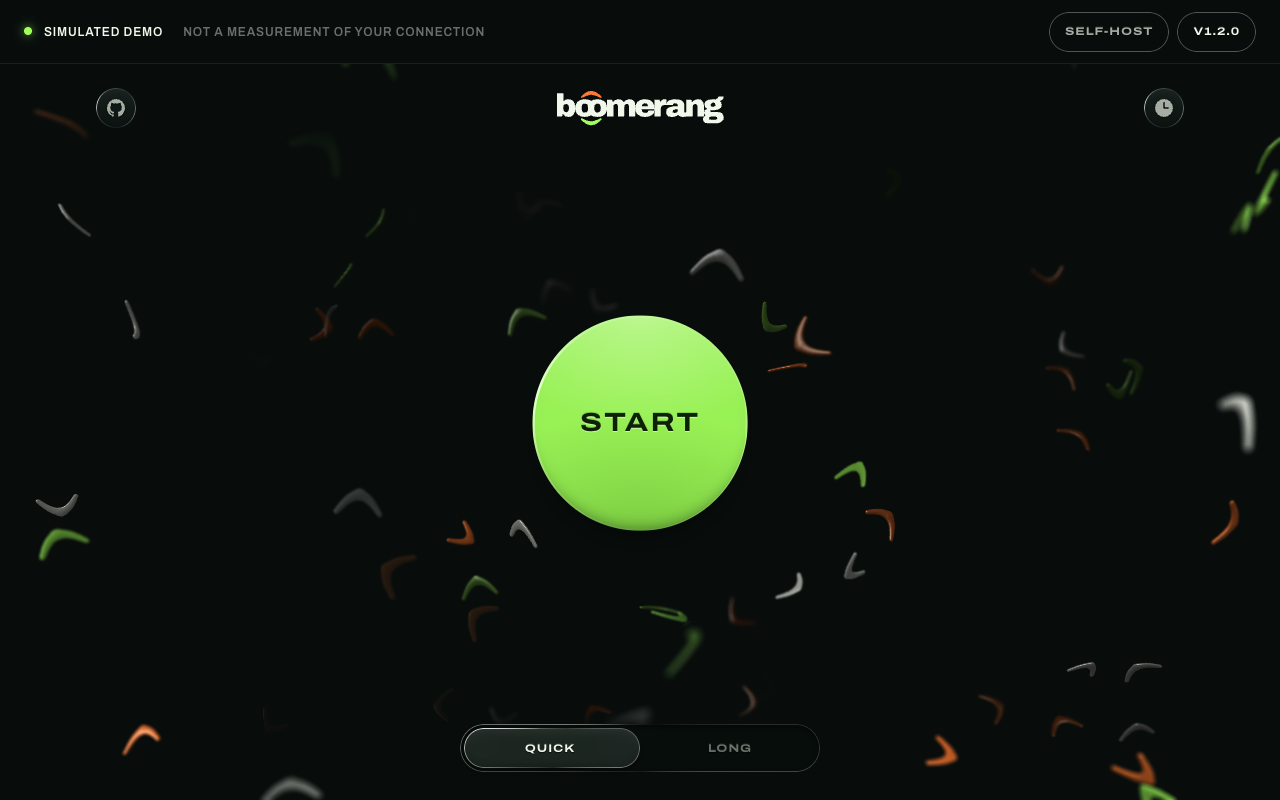
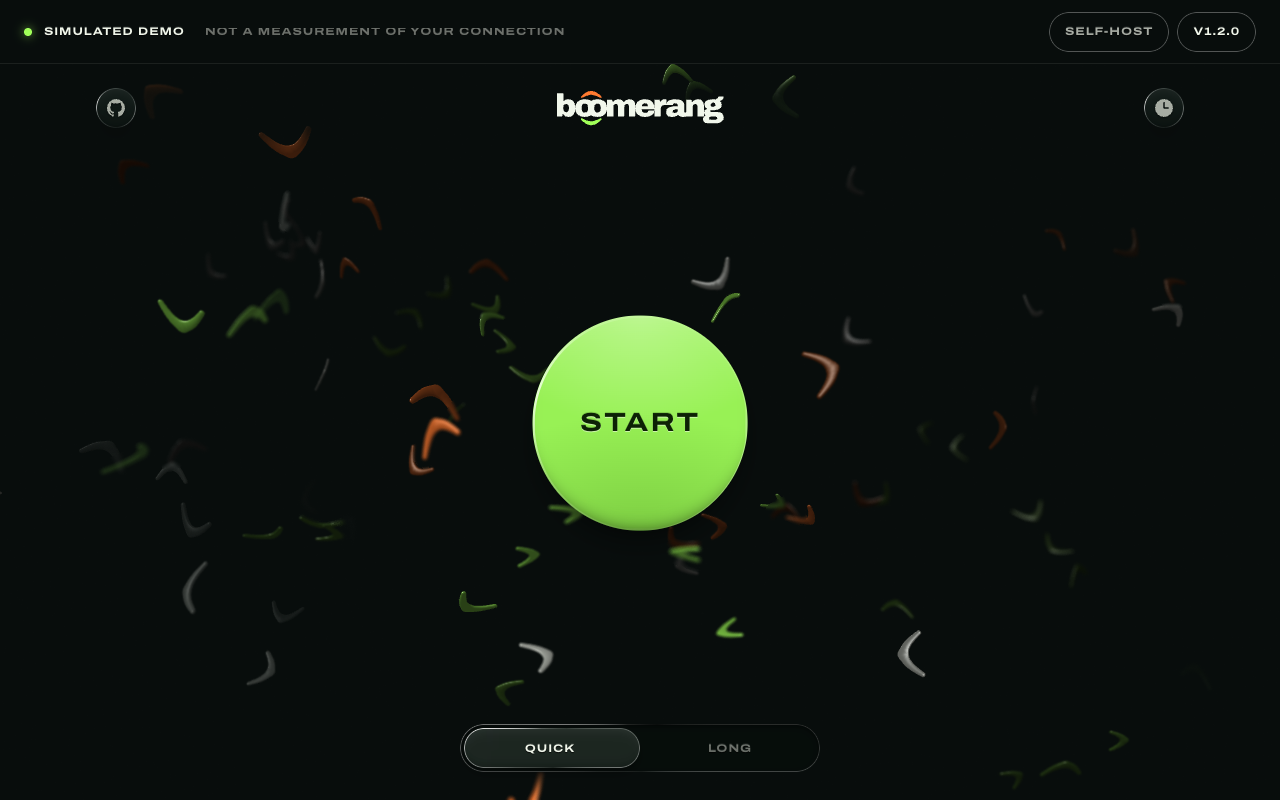
fix: set the demo note's second line in the key-label face, dimmed
Simulated demo keeps the keys' label face, and the line beside it now
uses the same face in the dimmer ink, the way Quick and Long pair a lit
label with a dim one.

diff --git a/site/routes/+page.svelte b/site/routes/+page.svelte
@@ -9,7 +9,7 @@
   import '../app.css';
   import { onMount } from 'svelte';
   import { installIcons } from '../../src/lib/ui/logo';
-  import { KEY_LABEL, LABEL } from '../../src/lib/ui/classes';
+  import { KEY_LABEL } from '../../src/lib/ui/classes';
 
   const SITE = 'https://boomerang.fernando.is';
   const GUIDE = 'https://github.com/fmaclen/boomerang/blob/master/docs/self-hosting.md';
@@ -66,12 +66,12 @@
 </svelte:head>
 
 <div class="flex h-dvh flex-col">
-  <!-- The bar is the app's own chrome: the note in the small capitals of its labels, the links as its secondary keys. -->
+  <!-- The bar is the app's own chrome: the note in its key labels, lit and dim like Quick and Long, and the links as its secondary keys. -->
   <header class="flex h-16 flex-none items-center justify-between gap-4 border-b border-ink/8 px-4 sm:px-6">
     <p class="m-0 flex min-w-0 items-center gap-3" data-testid="demo-note">
       <span class="size-2 flex-none rounded-full bg-lime shadow-[0_0_10px_rgba(161,255,89,0.8)]" aria-hidden="true"></span>
-      <span class="flex-none text-ink {TRIM} {LABEL}">Simulated demo</span>
-      <span class="ml-2 hidden truncate text-ink-3 md:block {TRIM} {LABEL}">Not a measurement of your connection</span>
+      <span class="flex-none text-ink {TRIM} {KEY_LABEL}">Simulated demo</span>
+      <span class="ml-2 hidden truncate text-ink-3 md:block {TRIM} {KEY_LABEL}">Not a measurement of your connection</span>
     </p>
     <nav class="flex flex-none items-center gap-2" aria-label="Boomerang">
       <a class={KEY} href={GUIDE}><span class="{TRIM} {KEY_LABEL}">Self-host</span></a>
